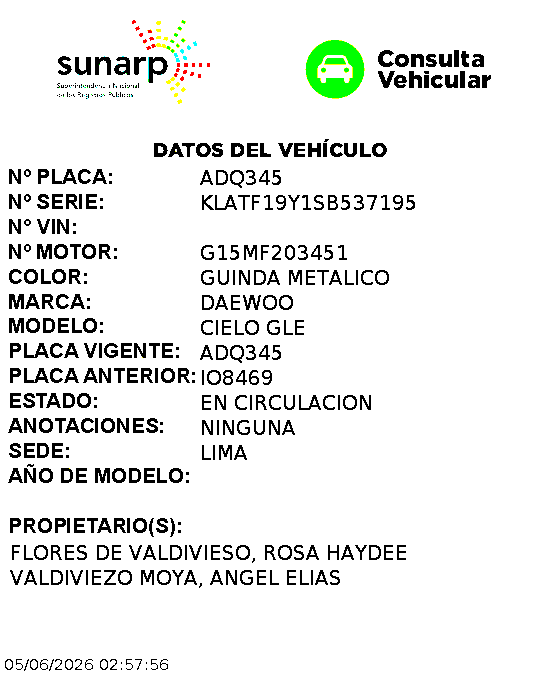
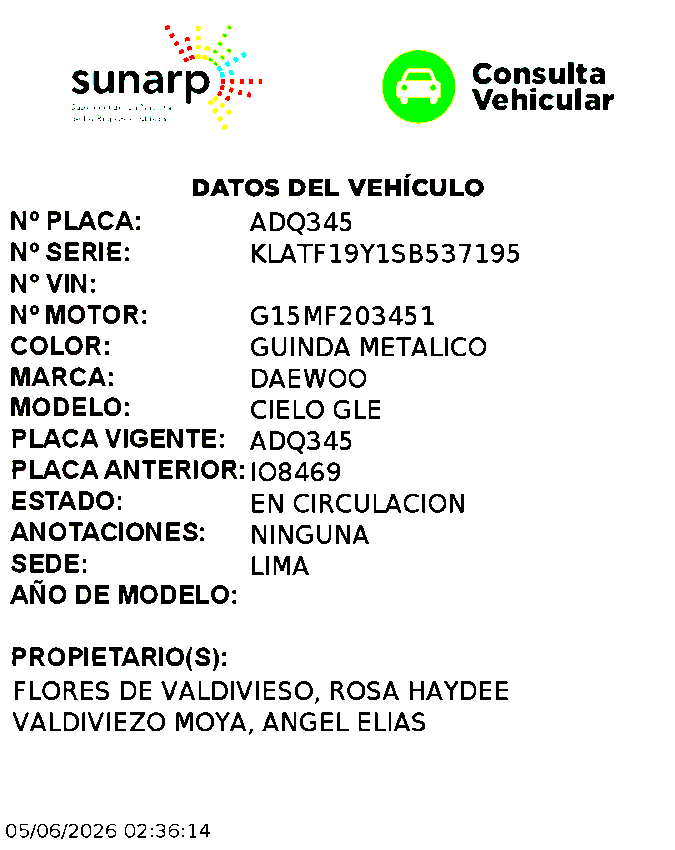
refactor (ocr): split OCR logic into modules (work in progress)

diff --git a/backend/ocr/preprocess.py b/backend/ocr/preprocess.py
@@ -1,0 +1,42 @@
+import cv2
+
+#===============================================================
+# Eliminar marca de agua y recortar encabezado
+#=============================================================== 
+ruta = r'C:\Users\Daniel\Documents\Tech-Lab\web scraping\backend\results\ADQ345_.png'
+
+# Escala de grises
+imagen = cv2.imread(ruta, cv2.COLOR_BGR2GRAY)
+
+if imagen is None:
+    raise FileNotFoundError(f'No se pudo cargar la imagen: {ruta}')
+
+# Binarización
+_, imagen_limpia = cv2.threshold(imagen, 150, 255, cv2.THRESH_BINARY)
+
+# Guardar imagen sin marca de agua
+cv2.imwrite('imagen_sin_marca.png', imagen_limpia)
+
+# print("Imagen procesada y guardada como 'imagen_sin_marca.png'.")
+
+# Obtener dimensiones de la imagen
+alto, ancho = imagen_limpia.shape[:2]
+
+# Recortar encabezado
+x_inicio = 0
+y_inicio = 140      # Elimina el encabezado
+x_fin = ancho
+y_fin = alto
+
+imagen_recortada = imagen_limpia[y_inicio:y_fin, x_inicio:x_fin]
+
+# Guardar imagen recortada
+cv2.imwrite('imagen_recortada.png', imagen_recortada)
+
+if __name__ == "__main__":
+    print("Preprocesamiento completado. Imagen recortada guardada como 'imagen_recortada.png'.")
+    # Imprimir información de la imagen recortada
+    print("Imagen recortada y guardada como 'imagen_recortada.png'.")
+    print(f"Dimensiones originales: {ancho}x{alto}")
+    print(f"Dimensiones recortadas: {imagen_recortada.shape}")
+    print(f"Dimensiones recortadas: {imagen_recortada.shape[1]}x{imagen_recortada.shape[0]}")

diff --git a/backend/ocr/new_test.py b/backend/ocr/new_test.py
@@ -1,22 +1,41 @@
+import json
 import cv2
 import easyocr
 
-ruta = r'C:\Users\Daniel\Documents\Tech-Lab\web scraping\backend\results\ADQ345_3.png'
+ruta = r'C:\Users\Daniel\Documents\Tech-Lab\web scraping\backend\results\A1B234.png'
 
-imagen = cv2.imread(ruta, cv2.COLOR_BGR2GRAY)
+campos = [
+    "placa",          
+    "serie",          
+    "vin",            
+    "motor",          
+    "color",          
+    "marca",          
+    "modelo",         
+    "placa_vigente",  
+    "placa_anterior", 
+    "estado",         
+    "anotaciones",    
+    "sede",           
+    "anio_modelo",    
+    "propietario",    
+]
 
-if imagen is None:
-    raise FileNotFoundError(f'No se pudo cargar la imagen: {ruta}')
 
-_, imagen_limpia = cv2.threshold(imagen, 150, 255, cv2.THRESH_BINARY)
 
-cv2.imwrite('imagen_sin_marca.png', imagen_limpia)
+cv2.imwrite("debug_campos.png", debug)
+cv2.imshow("ROI", debug)
 
-reader = easyocr.Reader(['en', 'es'], gpu=True)
-resultado = reader.readtext(imagen_limpia)
+print("Imagen de depuración guardada como 'debug_campos.png'.")
 
-for bbox, texto, prob in resultado:
+# cv2.imwrite('imagen_recortada.png', imagen_recortada)
+
+# reader = easyocr.Reader(['en', 'es'], gpu=True)
+# resultado = reader.readtext(imagen_limpia)
+
+# for bbox, texto, prob in resultado:
     # print(f"Texto: {texto} (Confianza: {prob:.2f})")
     # print(f"Coordenadas: {bbox}\n")
-    print(texto)
-    print("-" * 40)
+    # print(texto)
+    # print("-" * 40)
+    # pass

diff --git a/backend/ocr/extract_roi.py b/backend/ocr/extract_roi.py
@@ -1,0 +1,34 @@
+import cv2
+import json
+
+#===============================================================
+# Extraer regiones de interés (ROI) para cada campo
+#===============================================================
+
+debug = imagen_recortada.copy()
+
+list_roi = {}
+
+for campo in campos:
+    roi = cv2.selectROI(
+        f"Seleccionar ROI para {campo}",
+        debug,
+        showCrosshair=True,
+        fromCenter=False
+    )
+
+    x, y, w, h = roi
+
+    list_roi[campo] = {
+        "x": int(x),
+        "y": int(y),
+        "w": int(w),
+        "h": int(h)
+    }
+
+    cv2.destroyAllWindows()
+
+with open("campos.json", "w", encoding="utf-8") as archivo:
+    json.dump(list_roi, archivo, indent=4, ensure_ascii=False)
+
+print("Coordenadas guardadas correctamente en 'campos.json'.")

diff --git a/backend/ocr/test_cuda.py b/backend/ocr/test_cuda.py
@@ -1,3 +1,12 @@
 import torch
 
-print(torch.cuda.is_available())
+#===============================================================
+# Comprobar la disponibilidad de CUDA - uso de GPU para procesamiento de OCR
+#=============================================================== 
+
+print("Versión:", torch.__version__)
+print("CUDA incluida:", torch.version.cuda)
+print("CUDA disponible:", torch.cuda.is_available())
+
+if torch.cuda.is_available():
+    print("GPU:", torch.cuda.get_device_name(0))

diff --git a/backend/ocr/test.py b/backend/ocr/test.py
@@ -2,7 +2,7 @@ import easyocr
 import cv2
 
 reader = easyocr.Reader(['en', 'es'], gpu=True)
-ruta = r'C:\Users\Daniel\Documents\Tech-Lab\web scraping\backend\results\ADQ345_3.png'
+ruta = r'C:\Users\Daniel\Documents\Tech-Lab\web scraping\backend\results\A1B234.png'
 imagen = cv2.imread(ruta)
 debug = imagen.copy()
 
